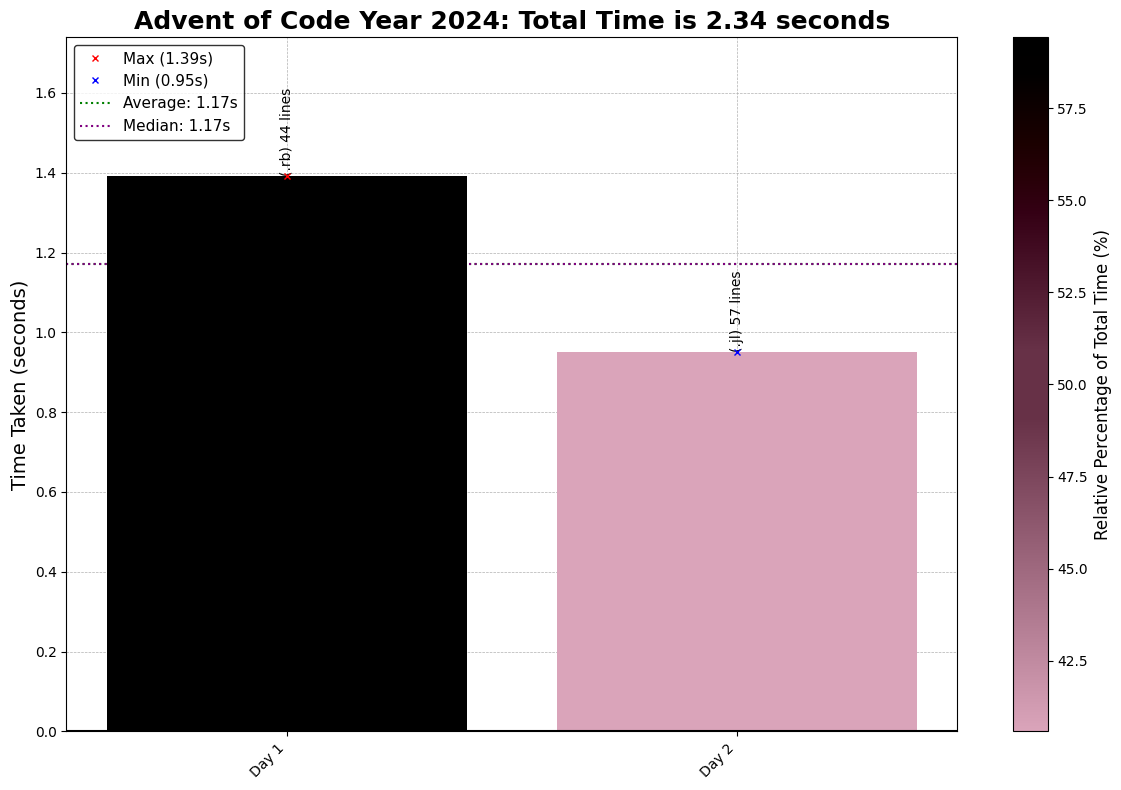
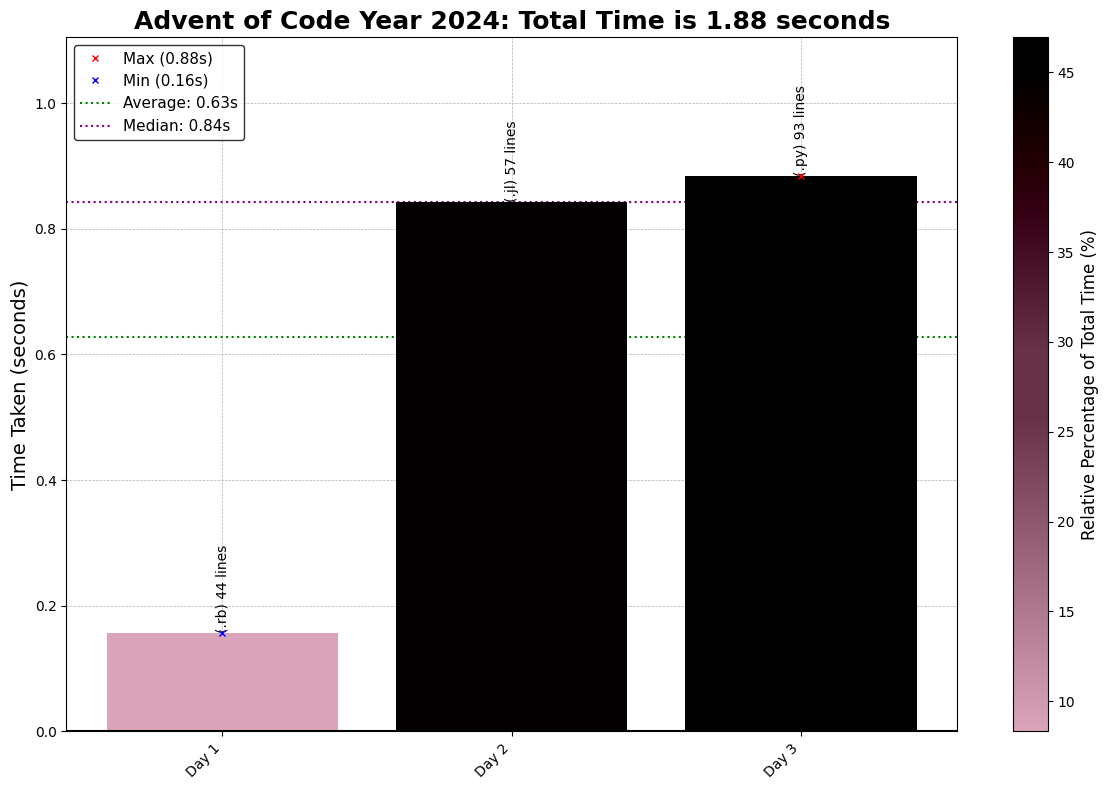
2024 Day 03

diff --git a/2024/03/2024Day03.py b/2024/03/2024Day03.py
@@ -1,0 +1,93 @@
+"""Advent of Code - Day 3, Year 2024
+Solution Started: Dec 3, 2024
+Puzzle Link: https://adventofcode.com/2024/day/3
+Solution by: abbasmoosajee07
+Brief: [Regex and activating multiplication]
+"""
+
+#!/usr/bin/env python3
+
+import os, re, copy
+import numpy as np
+import pandas as pd
+import matplotlib.pyplot as plt
+
+# Load the input data from the specified file path
+D03_file = "Day03_input.txt"
+D03_file_path = os.path.join(os.path.dirname(os.path.abspath(__file__)), D03_file)
+
+# Read and sort input data into a grid
+with open(D03_file_path) as file:
+    input_data = file.read().strip().split('\n')
+# print(input_data)
+
+def find_muls(input_list):
+    """
+    Finds all 'mul(a,b)' patterns in the input strings, computes their products, 
+    and returns the sum of these products.
+
+    Args:
+    - input_data: list of strings, each containing potential 'mul(a,b)' patterns.
+
+    Returns:
+    - int, sum of all products from the 'mul(a,b)' patterns.
+    """
+    pattern = r"mul\((-?\d+),(-?\d+)\)"
+    total_sum = 0
+
+    for line in input_list:
+        matches = re.findall(pattern, line)
+        for n1, n2 in matches:
+            total_sum += int(n1) * int(n2)
+
+    return total_sum
+
+ans_p1 = find_muls(input_data)
+print("Part 1:", ans_p1)
+
+
+def find_muls_with_activation(input_list):
+    """
+    Extracts all occurrences of 'mul(a,b)', 'do()', and 'don't()' in the order they appear,
+    processes them to calculate the total sum of valid multiplications based on activation states.
+
+    Args:
+    - input_list: list of str, the input strings to search.
+
+    Returns:
+    - int: The total sum of valid multiplications.
+    """
+    total_sum = 0
+    activation = 1  # Start with activation enabled
+    patterns = [
+        r"mul\((-?\d+),(-?\d+)\)",  # Matches 'mul(a,b)'
+        r"do\(\)",                 # Matches 'do()'
+        r"don't\(\)"               # Matches "don't()"
+    ]
+
+    # Process each line in order
+    for line in input_list:
+        # Find all matches for the patterns, keeping order
+        matches = []
+        for pattern in patterns:
+            for match in re.finditer(pattern, line):
+                matches.append((match.group(), match.start()))
+
+        # Sort matches by their position in the string
+        matches.sort(key=lambda x: x[1])
+
+        # Process matches in order
+        for match, _ in matches:
+            if match.startswith("do()"):
+                activation = 1  # Enable activation
+            elif match.startswith("don't()"):
+                activation = 0  # Disable activation
+            elif match.startswith("mul"):
+                n1, n2 = map(int, re.findall(r"-?\d+", match))
+                if activation == 1:  # Only add to sum if activated
+                    total_sum += (n1 * n2)
+    
+    return total_sum
+
+ans_p2 = find_muls_with_activation(input_data)
+print("Part 2:", ans_p2)

diff --git a/2024/README_2024.md b/2024/README_2024.md
@@ -6,3 +6,4 @@ This repository contains coding solutions for the 2024 Advent of Code. Its the f
 
 1. **Day 1- Historian Hysteria**: *Ruby* Sort number lists and count their differences. Pretty simple overall, provided i didn't make reading mistakes, but life goes on
 2. **Day 2- Red-Nosed Reports** *Julia* Validate number lists according to different criteria, Part 1 was simple, complicated Part 2 way too much initially.
+3. **Day 3- Activating multiplication**: *Python* Used regex to find presence of all valid multiples, and then evaluate them. Seemed complicated originally until, you calm down and think of a clearer approach
